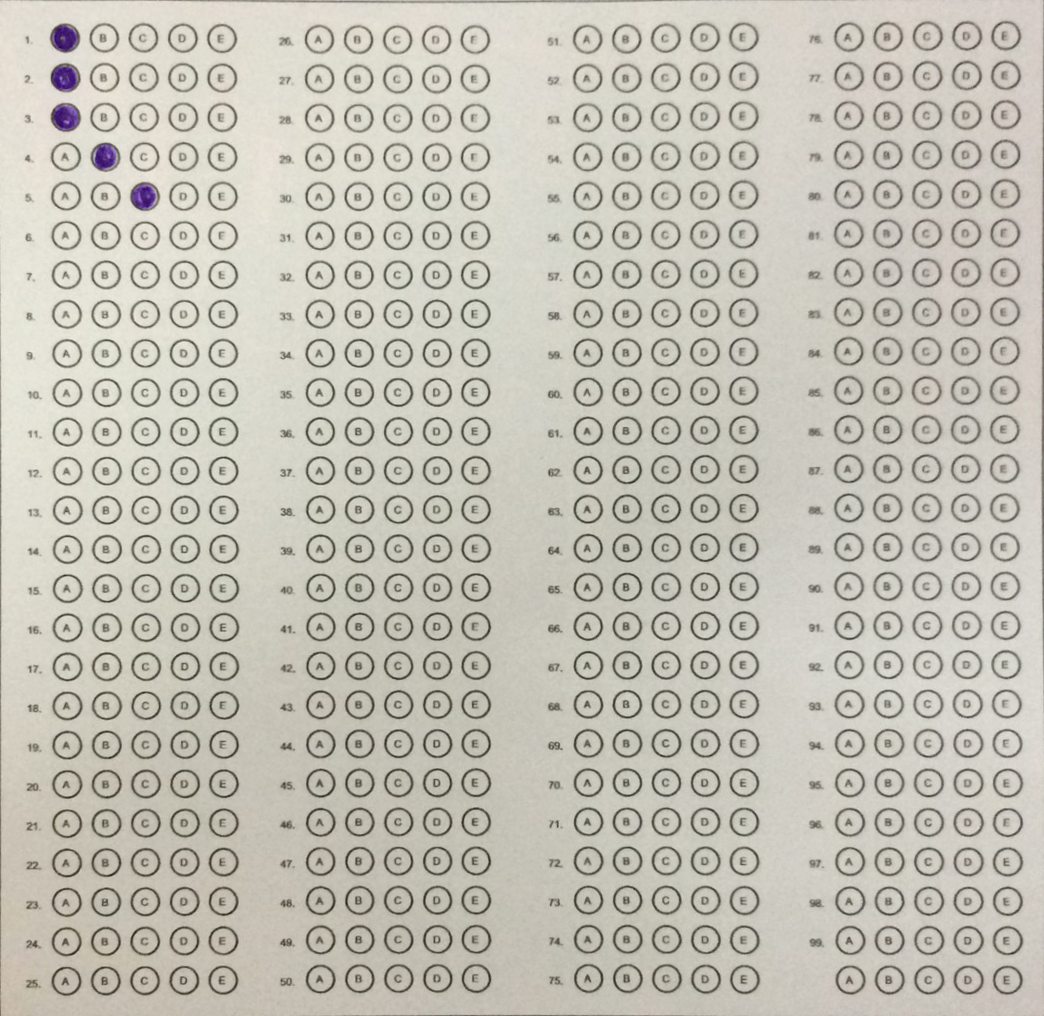
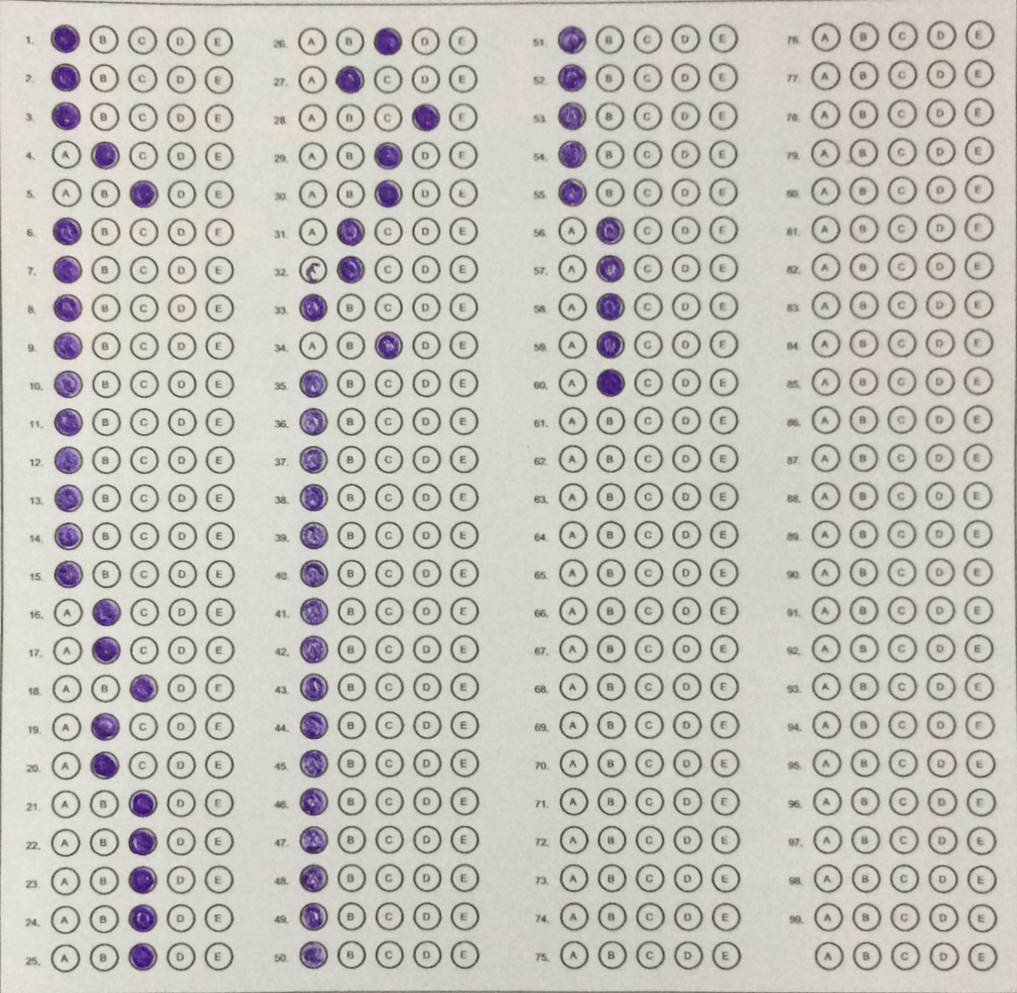
can scan answer sizty

diff --git a/quickstart/utils.py b/quickstart/utils.py
@@ -29,7 +29,63 @@ def calculate_point(filename, name):
     	2: 1,
     	3: 1,
     	4: 2,
-    	5: 3
+    	5: 3,
+        6: 1,
+        7: 1,
+        8: 1,
+        9: 1,
+        10: 1,
+        11: 1,
+        12: 1,
+        13: 1,
+        14: 1,
+        15: 1,
+        16: 1,
+        17: 1,
+        18: 1,
+        19: 1,
+        20: 1,
+        21: 1,
+        22: 1,
+        23: 1,
+        24: 1,
+        25: 1,
+        26: 1,
+        27: 1,
+        28: 1,
+        29: 1,
+        30: 1,
+        31: 1,
+        32: 1,
+        33: 1,
+        34: 1,
+        35: 1,
+        36: 1,
+        37: 1,
+        38: 1,
+        39: 1,
+        40: 1,
+        41: 1,
+        42: 1,
+        43: 1,
+        44: 1,
+        45: 1,
+        46: 1,
+        47: 1,
+        48: 1,
+        49: 1,
+        50: 1,
+        51: 1,
+        52: 1,
+        52: 1,
+        53: 1,
+        54: 1,
+        55: 1,
+        56: 1,
+        57: 1,
+        58: 1,
+        59: 1,
+        60: 1
     }
 
     # load the image, convert it to grayscale, blur it
@@ -126,13 +182,13 @@ def calculate_point(filename, name):
     # # 	method="top-to-bottom")[0]
     print('step 7')
     correct = 0
-
+    print(len(questionCnts))
     if(len(questionCnts) != 500):
         raise ValueError('Wrong number of answer.')
     # each question has 5 possible answers, to loop over the
     # question in batches of 5
 
-    for (q, i) in enumerate(np.arange(0, 5, 1)):
+    for (q, i) in enumerate(np.arange(0, 60, 1)):
     	# draw the outline of the correct answer on the test
     	# sort the contours for the current question from
     	# left to right, then initialize the index of the
